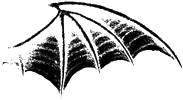
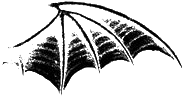
new bg deathbat redesigned

diff --git a/src/com/roy/barina/livewallpapernodonate/LiveWallpaper.java b/src/com/roy/barina/livewallpapernodonate/LiveWallpaper.java
@@ -24,9 +24,9 @@ public class LiveWallpaper extends BaseLiveWallpaperService implements SharedPre
 {
 	public static final String SHARED_PREFS_NAME = "livewallpapertemplatesettings";
 	private static Camera mCamera = null;
-	private static Texture texture, titleTexture;
-	private static Sprite skull, jaw, rightWing, leftWing, titleSprite;
-	private static TextureRegion skullRegion, leftWingRegion, rightWingRegion, jawRegion, titleRegion;
+	private static Texture texture, titleTexture, bgTexture;
+	private static Sprite skull, jaw, rightWing, leftWing, titleSprite, bgSprite;
+	private static TextureRegion skullRegion, leftWingRegion, rightWingRegion, jawRegion, titleRegion, bgRegion;
 	private static Context context;
 	private static Scene scene;
 	private static org.anddev.andengine.engine.Engine engine;
@@ -53,14 +53,19 @@ public class LiveWallpaper extends BaseLiveWallpaperService implements SharedPre
 		Settings.loadContext(getBaseContext());
 		// Set the Base Texture Path
 		TextureRegionFactory.setAssetBasePath("gfx/");
-		initTextureRegions(Settings.getSettingAsBoolean(IS_BLACK_SETTING));
+		bgTexture = new Texture(1024, 1024, TextureOptions.BILINEAR);
+		bgRegion = TextureRegionFactory.createFromAsset(bgTexture, this, "middle_bg.png", 0, 0);
+		engine.getTextureManager().loadTexture(bgTexture);
+		bgSprite = new Sprite(-(bgRegion.getWidth() * 0.5f), (CAMERA_HEIGHT * 0.5f - bgRegion.getHeight() * 0.5f)+250, bgRegion);
+		initTextureRegions(Settings.getSettingAsBoolean(IS_BLACK_SETTING)); 
 	}
 
 	@Override
 	public synchronized Scene onLoadScene()
 	{
-		scene = new Scene(1);
+		scene = new Scene(2);
 		setSceneBGColor(Settings.getSettingAsBoolean(IS_BLACK_SETTING));
+		scene.getLayer(0).addEntity(bgSprite);
 		addSpritesToScene();
 		return scene;
 	}
